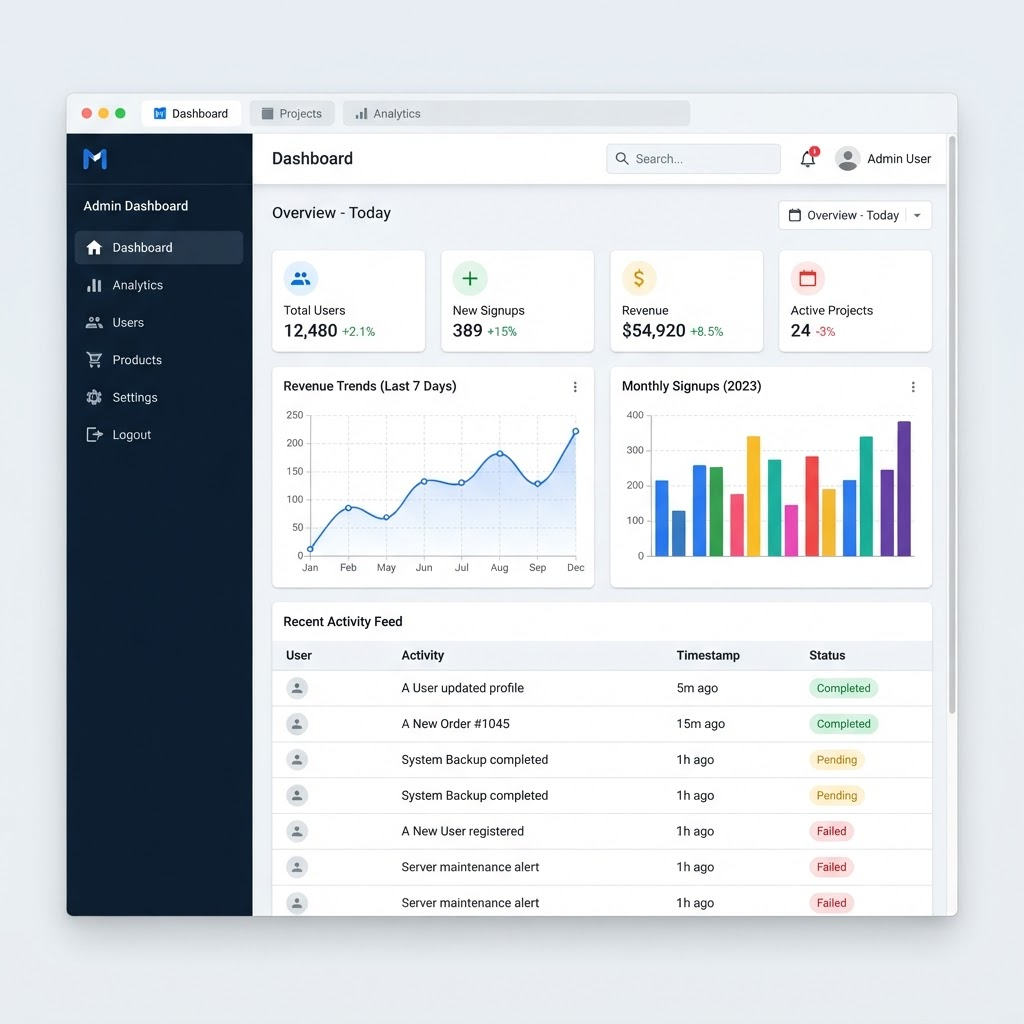
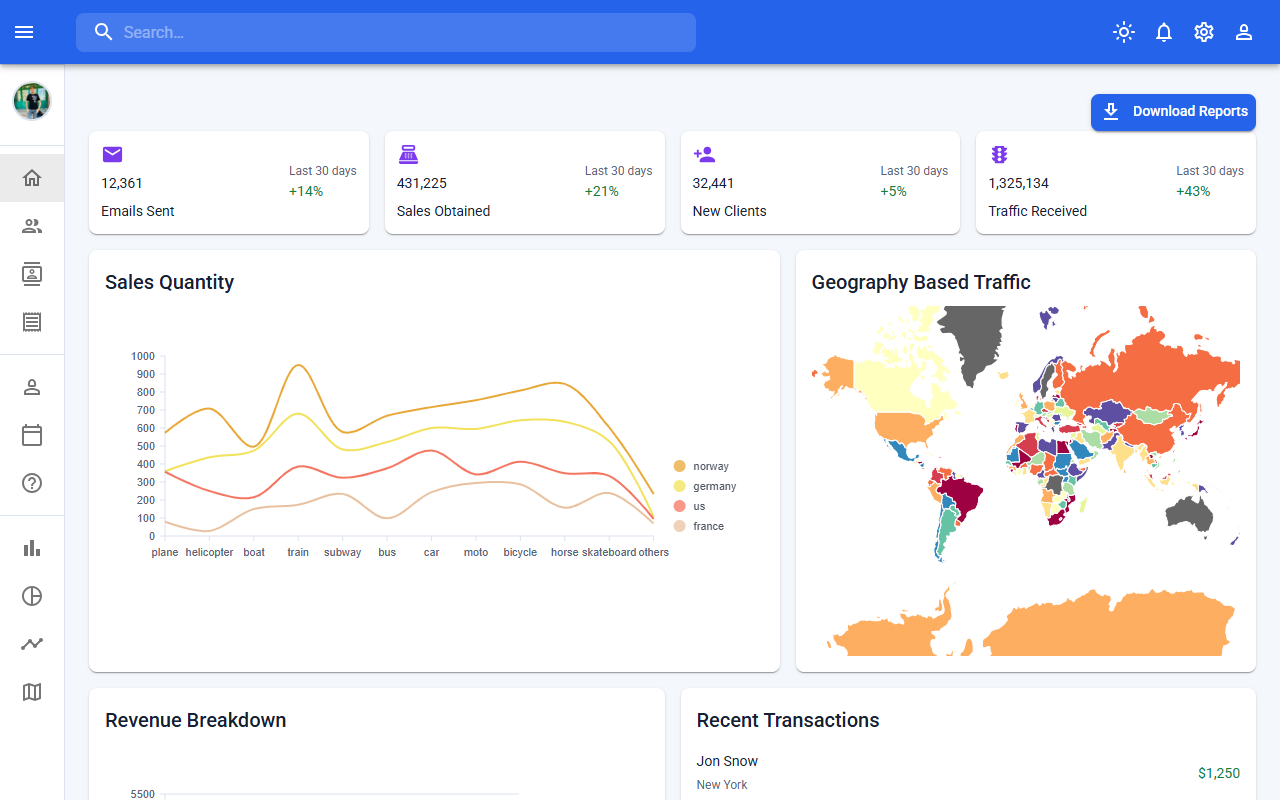
Add LinkedIn and GitHub profile links

diff --git a/lib/dictionaries.ts b/lib/dictionaries.ts
@@ -142,14 +142,14 @@ const en = {
           "A modern and responsive dashboard interface built with React.js and Material UI, with organized views for dashboard content.",
       },
       {
-        title: "Weather App",
+        title: "Landing Page",
         description:
-          "A React weather application where users enter a city name to view weather information including temperature, humidity, and pressure.",
+          "An attractive and modern landing page built to present products clearly with a responsive and clean design.",
       },
       {
-        title: "Creative Agency",
+        title: "Morrow Store",
         description:
-          "A responsive creative agency website with About, Skills, Gallery, Timeline, Features, and Testimonials sections plus section navigation.",
+          "A responsive e-commerce application with product listing, shopping cart functionality, and clean modern design.",
       },
     ],
   },
@@ -160,6 +160,8 @@ const en = {
       "Have a project in mind or an opportunity you'd like to discuss? Feel free to get in touch.",
     emailLabel: "Email",
     whatsappLabel: "WhatsApp",
+    githubLabel: "GitHub",
+    linkedinLabel: "LinkedIn",
     sendEmail: "Send Email",
     whatsappCta: "Contact Me on WhatsApp",
     form: {
@@ -309,16 +311,16 @@ const ar: Dictionary = {
     github: "GitHub",
     items: [
       {
-        title: "لوحة تحكم",
+        title: "Dashboard",
         description: "واجهة لوحة تحكم حديثة ومتجاوبة مبنية باستخدام React.js وMaterial UI لتنظيم محتوى لوحة التحكم.",
       },
       {
-        title: "تطبيق الطقس",
-        description: "تطبيق طقس باستخدام React يتيح للمستخدم إدخال اسم مدينة وعرض درجة الحرارة والرطوبة والضغط الجوي.",
+        title: "Landing Page",
+        description: "صفحة هبوط جذابة وحديثة مصممة لعرض المنتجات بوضوح بتصميم متجاوب ونظيف.",
       },
       {
-        title: "وكالة إبداعية",
-        description: "موقع متجاوب لوكالة إبداعية يحتوي على أقسام عن الوكالة والمهارات والمعرض والخط الزمني والمميزات وآراء العملاء مع قائمة تنقل بين الأقسام.",
+        title: "Morrow Store",
+        description: "تطبيق متجر إلكتروني متجاوب يحتوي على عرض للمنتجات وسلة تسوق بتصميم عصري ونظيف.",
       },
     ],
   },
@@ -328,6 +330,8 @@ const ar: Dictionary = {
     description: "هل لديك مشروع في ذهنك أو فرصة ترغب في مناقشتها؟ لا تتردد في التواصل معي.",
     emailLabel: "البريد الإلكتروني",
     whatsappLabel: "واتساب",
+    githubLabel: "GitHub",
+    linkedinLabel: "LinkedIn",
     sendEmail: "إرسال بريد إلكتروني",
     whatsappCta: "تواصل معي عبر واتساب",
     form: {
@@ -355,4 +359,8 @@ export const CONTACT = {
   email: "krkrkemo2005@gmail.com",
   whatsappDisplay: "+20 155 180 1262",
   whatsappHref: "https://wa.me/201551801262",
+  github: "https://github.com/kareem-ahmed-dev",
+  githubDisplay: "kareem-ahmed-dev",
+  linkedin: "https://www.linkedin.com/in/kareem-ahmed-frontend-developer",
+  linkedinDisplay: "Kareem Ahmed",
 }

diff --git a/components/contact.tsx b/components/contact.tsx
@@ -1,7 +1,7 @@
 "use client"
 
 import { useState, type FormEvent } from "react"
-import { Mail, MessageCircle, Check } from "lucide-react"
+import { Mail, MessageCircle, Check, Github, Linkedin } from "lucide-react"
 import { useLanguage } from "@/components/language-provider"
 import { CONTACT } from "@/lib/dictionaries"
 
@@ -10,12 +10,30 @@ export function Contact() {
   const [sent, setSent] = useState(false)
   const [form, setForm] = useState({ name: "", email: "", message: "" })
 
-  function handleSubmit(e: FormEvent) {
+  async function handleSubmit(e: FormEvent) {
     e.preventDefault()
-    const subject = encodeURIComponent(`Portfolio inquiry from ${form.name || "a visitor"}`)
-    const body = encodeURIComponent(`${form.message}\n\n— ${form.name} (${form.email})`)
-    window.location.href = `mailto:${CONTACT.email}?subject=${subject}&body=${body}`
-    setSent(true)
+    
+    try {
+      const response = await fetch("https://api.web3forms.com/submit", {
+        method: "POST",
+        headers: {
+          "Content-Type": "application/json",
+          Accept: "application/json",
+        },
+        body: JSON.stringify({
+          access_key: "954bc42d-2045-4ef7-8ca2-8b535891b598",
+          name: form.name,
+          email: form.email,
+          message: form.message,
+        }),
+      })
+      const result = await response.json()
+      if (result.success) {
+        setSent(true)
+      }
+    } catch (error) {
+      console.error(error)
+    }
   }
 
   return (
@@ -58,6 +76,34 @@ export function Contact() {
                   <span className="block text-sm font-medium text-foreground" dir="ltr">
                     {CONTACT.whatsappDisplay}
                   </span>
+                </span>
+              </a>
+              <a
+                href={CONTACT.github}
+                target="_blank"
+                rel="noopener noreferrer"
+                className="flex items-center gap-4 rounded-xl border border-border bg-card p-4 transition-colors hover:border-primary/40"
+              >
+                <span className="inline-flex h-10 w-10 items-center justify-center rounded-lg bg-accent text-accent-foreground">
+                  <Github className="h-5 w-5" />
+                </span>
+                <span className="min-w-0">
+                  <span className="block text-xs text-muted-foreground">{t.contact.githubLabel}</span>
+                  <span className="block truncate text-sm font-medium text-foreground">{CONTACT.githubDisplay}</span>
+                </span>
+              </a>
+              <a
+                href={CONTACT.linkedin}
+                target="_blank"
+                rel="noopener noreferrer"
+                className="flex items-center gap-4 rounded-xl border border-border bg-card p-4 transition-colors hover:border-primary/40"
+              >
+                <span className="inline-flex h-10 w-10 items-center justify-center rounded-lg bg-accent text-accent-foreground">
+                  <Linkedin className="h-5 w-5" />
+                </span>
+                <span className="min-w-0">
+                  <span className="block text-xs text-muted-foreground">{t.contact.linkedinLabel}</span>
+                  <span className="block truncate text-sm font-medium text-foreground">{CONTACT.linkedinDisplay}</span>
                 </span>
               </a>
             </div>

diff --git a/components/projects.tsx b/components/projects.tsx
@@ -7,18 +7,21 @@ import { useLanguage } from "@/components/language-provider"
 const PROJECT_META = [
   {
     image: "/projects/dashboard.png",
-    tags: ["React.js", "Material UI", "JavaScript"],
+    tags: ["React", "Material UI", "Nivo", "FullCalendar", "Vite"],
     github: "https://github.com/kareem-ahmed-dev/dashboard-react",
+    liveDemo: "https://dashboard-react-one-psi.vercel.app/",
   },
   {
-    image: "/projects/weather-app.jpg",
-    tags: ["React.js", "Axios", "JavaScript"],
-    github: "https://github.com/kareem-ahmed-dev/Weather-app",
+    image: "/projects/landing.png",
+    tags: ["React", "Vite", "JavaScript", "CSS"],
+    github: "https://github.com/kareem-ahmed-dev/Landing-page",
+    liveDemo: "https://stratum-ai-landing-page.vercel.app/",
   },
   {
-    image: "/projects/creative-agency.jpg",
-    tags: ["HTML5", "CSS3", "JavaScript"],
-    github: "https://github.com/kareem-ahmed-dev/My-Projects-js",
+    image: "/projects/morrow.png",
+    tags: ["React", "Tailwind CSS", "React Router", "Vite"],
+    github: "https://github.com/kareem-ahmed-dev/morrow-store",
+    liveDemo: "https://morrow-store-seven.vercel.app/",
   },
 ]
 
@@ -66,13 +69,13 @@ export function Projects() {
                   </ul>
                   <div className="mt-5 flex items-center gap-2">
                     <a
-                      href={meta.github}
+                      href={meta.liveDemo}
                       target="_blank"
                       rel="noreferrer"
                       className="inline-flex flex-1 items-center justify-center gap-1.5 rounded-full bg-foreground px-4 py-2 text-xs font-medium text-background transition-opacity hover:opacity-90"
                     >
                       <ExternalLink className="h-3.5 w-3.5" />
-                      {t.projects.viewRepository}
+                      {t.projects.liveDemo}
                     </a>
                     <a
                       href={meta.github}

diff --git a/components/site-footer.tsx b/components/site-footer.tsx
@@ -1,6 +1,6 @@
 "use client"
 
-import { Mail, MessageCircle } from "lucide-react"
+import { Mail, MessageCircle, Github, Linkedin } from "lucide-react"
 import { useLanguage } from "@/components/language-provider"
 import { CONTACT } from "@/lib/dictionaries"
 
@@ -33,6 +33,24 @@ export function SiteFooter() {
               className="inline-flex h-10 w-10 items-center justify-center rounded-full border border-border bg-card text-foreground transition-colors hover:bg-secondary"
             >
               <MessageCircle className="h-4 w-4" />
+            </a>
+            <a
+              href={CONTACT.github}
+              target="_blank"
+              rel="noopener noreferrer"
+              aria-label="GitHub"
+              className="inline-flex h-10 w-10 items-center justify-center rounded-full border border-border bg-card text-foreground transition-colors hover:bg-secondary"
+            >
+              <Github className="h-4 w-4" />
+            </a>
+            <a
+              href={CONTACT.linkedin}
+              target="_blank"
+              rel="noopener noreferrer"
+              aria-label="LinkedIn"
+              className="inline-flex h-10 w-10 items-center justify-center rounded-full border border-border bg-card text-foreground transition-colors hover:bg-secondary"
+            >
+              <Linkedin className="h-4 w-4" />
             </a>
           </div>
         </div>
